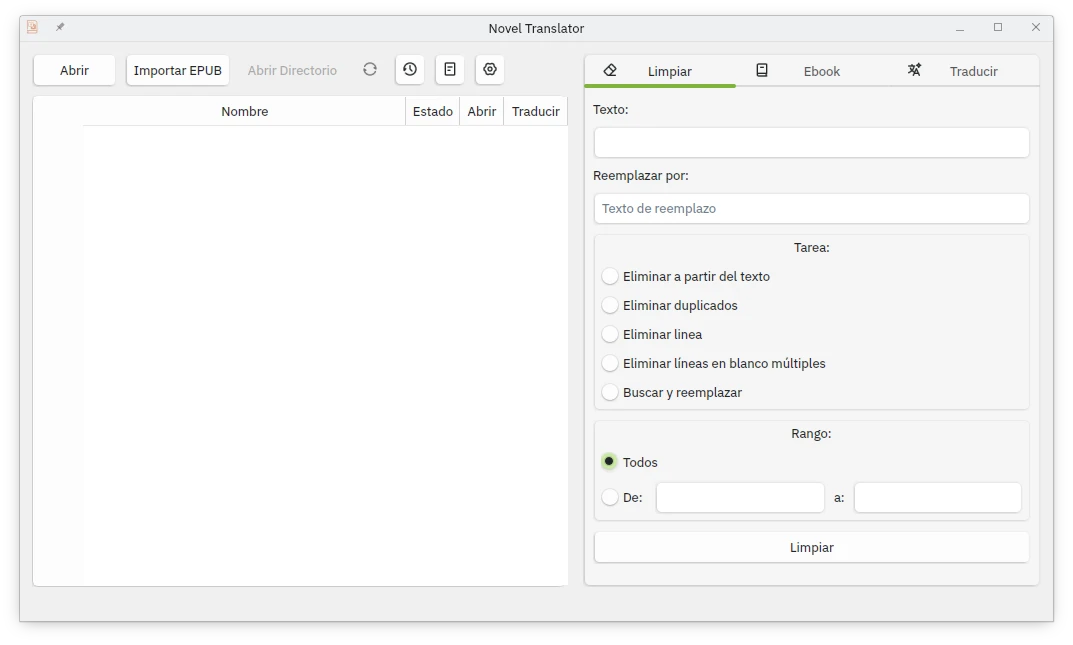
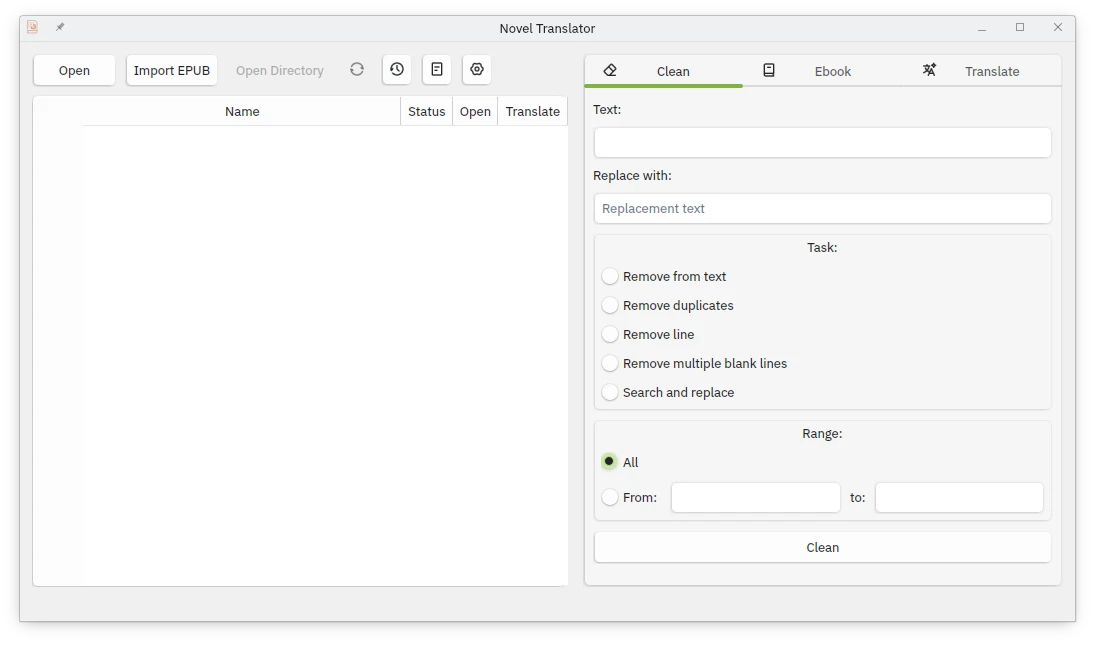
Update README and Screenshots

diff --git a/README_ES.md b/README_ES.md
@@ -58,6 +58,8 @@ python main.py
 - Historial de carpetas recientes para acceso rápido
 
 ### 🌐 Traducción Avanzada
+![Translation](assets/translate.webp)
+
 - **Múltiples Proveedores de IA**: Google Gemini, Chutes AI, Together AI, DeepInfra, OpenAI
 - **Funciones Inteligentes**: Control granular de capítulos, comprobación automática de calidad, refinamiento
 - **Términos Personalizados**: Terminología específica por proyecto con persistencia
@@ -65,11 +67,15 @@ python main.py
 - **Base de Datos**: Evita retraducciones
 
 ### 🧹 Limpieza de Texto
+![Translation](assets/clean.webp)
+
 - **5 Modos de Limpieza**: Eliminar contenido después de texto, remover duplicados, eliminar líneas específicas, normalizar espacios, buscar y reemplazar
 - **Control de Rango**: Procesar capítulos específicos o todos los archivos
 - **Vista Previa y Respaldo**: Previsualizar cambios antes de aplicar y respaldo automático
 
 ### 📚 Creación de EPUB
+![Translation](assets/ebook.webp)
+
 - **Conversión Profesional**: TXT a EPUB con estructura literaria
 - **Metadatos Inteligentes**: Gestión automática de título, autor y descripción
 - **Detección de Portadas**: Búsqueda automática de imágenes de portada (cover.jpg, portada.png, etc.)

diff --git a/README.md b/README.md
@@ -58,6 +58,8 @@ python main.py
 - Recent folders history for quick access
 
 ### 🌐 Advanced Translation
+![Translation](assets/translate.webp)
+
 - **Multiple AI Providers**: Google Gemini, Chutes AI, Together AI, DeepInfra, OpenAI
 - **Smart Features**: Granular chapter control, automatic quality checks, refinement
 - **Custom Terms**: Project-specific terminology with persistence
@@ -65,11 +67,15 @@ python main.py
 - **Database Integration**: Avoids re-translations
 
 ### 🧹 Text Cleaning
+![Translation](assets/clean.webp)
+
 - **5 Cleaning Modes**: Delete content after text, remove duplicates, delete specific lines, normalize spacing, find & replace
 - **Range Control**: Process specific chapters or all files
 - **Preview & Backup**: Preview changes before applying and automatic backup
 
 ### 📚 EPUB Creation
+![Translation](assets/ebook.webp)
+
 - **Professional Conversion**: TXT to EPUB with literary structure
 - **Smart Metadata**: Automatic title, author, and description management
 - **Cover Detection**: Automatic cover image detection (cover.jpg, portada.png, etc.)
